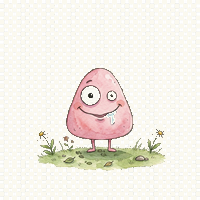
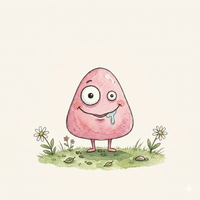
Kids: Kompletny zestaw 28 ilustracji z kremowym tłem #FAF6EF
Wszystkie obrazki wygenerowane od nowa z Gemini z solidnym tłem
kremowym — zero przezroczystości, zero szachownicy.
- 5 postaci Zähni (brush, welcome, detective x2, winner)
- 8 kart Memory (ząb, klepsydra, nić, pasta, jabłko, woda, szczoteczka, lusterko)
- 4 bakterie (zielona, fioletowa, różowa, pomarańczowa)
- 10 ilustracji jedzenia (jabłko, bonbon, marchewka, limonada, ser, czekolada, woda, lody, orzechy, ciasto)
- 1 puchar ZAHNHELD

diff --git a/kids/index.html b/kids/index.html
@@ -220,7 +220,7 @@ body{display:flex;justify-content:center;align-items:center}
 </script>
 <div id="app">
   <div id="start-screen" class="screen active">
-    <div class="start-character"><img src="img/zaehni-brush.png?v=5" alt="Zähni"></div>
+    <div class="start-character"><img src="img/zaehni-brush.png?v=6" alt="Zähni"></div>
     <div class="start-title"><h1>FRYDENT Kids</h1><div class="subtitle">Zahnspiele mit Zähni</div></div>
     <div class="divider"></div>
     <button class="start-btn" onclick="showScreen('age-screen');playSound('click')">Los geht's!</button>
@@ -231,15 +231,15 @@ body{display:flex;justify-content:center;align-items:center}
     <div class="age-header"><h2>Wähle deine Gruppe!</h2><p>Wie alt bist du?</p></div>
     <div class="age-cards">
       <div class="age-card" onclick="selectAge('tiny');playSound('click')">
-        <div class="age-card-icon"><img src="img/zaehni-welcome.png?v=5" alt=""></div>
+        <div class="age-card-icon"><img src="img/zaehni-welcome.png?v=6" alt=""></div>
         <div class="age-card-text"><h3 style="color:var(--rose)">Zahnzwerge</h3><div class="age-range">3 – 5 Jahre</div><div class="age-desc">Bläschen, Zähneputzen, Zuordnen &amp; mehr</div></div>
       </div>
       <div class="age-card" onclick="selectAge('mid');playSound('click')">
-        <div class="age-card-icon"><img src="img/zaehni-brush.png?v=5" alt=""></div>
+        <div class="age-card-icon"><img src="img/zaehni-brush.png?v=6" alt=""></div>
         <div class="age-card-text"><h3 style="color:var(--sage)">Zahnforscher</h3><div class="age-range">5 – 7 Jahre</div><div class="age-desc">Memory, Quiz &amp; Bakterien fangen</div></div>
       </div>
       <div class="age-card" onclick="selectAge('big');playSound('click')">
-        <div class="age-card-icon"><img src="img/zaehni-detective.png?v=5" alt=""></div>
+        <div class="age-card-icon"><img src="img/zaehni-detective.png?v=6" alt=""></div>
         <div class="age-card-text"><h3 style="color:var(--lavender)">Zahndetektive</h3><div class="age-range">7 – 10 Jahre</div><div class="age-desc">Großes Memory, Quiz, Jagd &amp; Diplom</div></div>
       </div>
     </div>
@@ -249,7 +249,7 @@ body{display:flex;justify-content:center;align-items:center}
     <div class="hub-header">
       <button class="btn-round" onclick="showScreen('age-screen');playSound('click')">←</button>
       <div class="hub-title"><h2 id="hub-group-name"></h2><div class="stars-display" id="hub-stars"></div></div>
-      <div class="hub-mascot"><img id="hub-mascot-img" src="img/zaehni-welcome.png?v=5" alt=""></div>
+      <div class="hub-mascot"><img id="hub-mascot-img" src="img/zaehni-welcome.png?v=6" alt=""></div>
     </div>
     <div class="hub-games" id="hub-games-grid"></div>
   </div>
@@ -263,7 +263,7 @@ body{display:flex;justify-content:center;align-items:center}
   </div>
 
   <div class="win-overlay" id="win-overlay">
-    <div class="win-character"><img src="img/trophy.png?v=5" alt=""></div>
+    <div class="win-character"><img src="img/trophy.png?v=6" alt=""></div>
     <div class="win-text"><h2 id="win-title">Super gemacht!</h2><p id="win-subtitle"></p></div>
     <div class="win-stars" id="win-stars"></div>
     <button class="win-btn" onclick="closeWin();playSound('click')">Weiter spielen</button>
@@ -290,26 +290,26 @@ function closeWin(){document.getElementById('win-overlay').classList.remove('act
 
 const GAMES={tiny:[{id:'bubbles',icon:'bubbles',name:'Bläschen platzen',desc:'Fang die Bläschen!',color:'var(--sky-light)'},{id:'brushing',icon:'brushing',name:'Zähne putzen',desc:'Putz alle Zähne sauber!',color:'var(--sage-light)'},{id:'matching',icon:'matching',name:'Was gehört zusammen?',desc:'Finde die 6 Paare!',color:'var(--lavender-light)'},{id:'gutschlecht',icon:'gutschlecht',name:'Gut oder Schlecht?',desc:'Was mögen deine Zähne?',color:'var(--honey-light)'},{id:'diplom',icon:'diplom',name:'Dein Diplom',desc:'Zahnzwerg-Urkunde!',color:'var(--rose-light)'}],mid:[{id:'memory-6',icon:'memory',name:'Memory',desc:'6 Paare finden',color:'var(--sage-light)'},{id:'quiz-easy',icon:'quiz',name:'Kleines Quiz',desc:'5 Fragen über Zähne',color:'var(--honey-light)'},{id:'bakterien-easy',icon:'bakterien',name:'Bakterien fangen',desc:'Fang sie in 25 Sekunden!',color:'var(--rose-light)'},{id:'matching',icon:'matching',name:'Zuordnen',desc:'6 Paare verbinden!',color:'var(--lavender-light)'},{id:'diplom',icon:'diplom',name:'Dein Diplom',desc:'Zahnforscher-Urkunde!',color:'var(--sky-light)'}],big:[{id:'memory-8',icon:'memory',name:'Memory',desc:'8 Paare — für Profis!',color:'var(--sage-light)'},{id:'quiz-hard',icon:'quiz',name:'Großes Zahnquiz',desc:'8 knifflige Fragen',color:'var(--honey-light)'},{id:'bakterien-hard',icon:'bakterien',name:'Bakterienjagd',desc:'30 Sekunden Jagd!',color:'var(--rose-light)'},{id:'diplom',icon:'diplom',name:'Dein Diplom',desc:'Zahndetektiv-Urkunde',color:'var(--lavender-light)'}]};
 const GN={tiny:'Zahnzwerge',mid:'Zahnforscher',big:'Zahndetektive'};
-const GM={tiny:'img/zaehni-welcome.png?v=5',mid:'img/zaehni-brush.png?v=5',big:'img/zaehni-detective.png?v=5'};
+const GM={tiny:'img/zaehni-welcome.png?v=6',mid:'img/zaehni-brush.png?v=6',big:'img/zaehni-detective.png?v=6'};
 
 function buildHub(){const games=GAMES[currentAge];document.getElementById('hub-group-name').textContent=GN[currentAge];document.getElementById('hub-mascot-img').src=GM[currentAge];const ts=getTotalStars();document.getElementById('hub-stars').textContent=ts>0?'⭐ '+ts+' Sterne':'Sammle Sterne!';document.getElementById('hub-games-grid').innerHTML=games.map(g=>'<div class="game-card" onclick="startGame(\''+g.id+'\');playSound(\'click\')"><span class="card-star '+(stars[g.id]?'earned':'')+'">⭐</span><div class="game-card-icon">'+ICONS[g.icon]+'</div><h3>'+g.name+'</h3><p>'+g.desc+'</p><div class="game-card-accent" style="background:'+g.color+'"></div></div>').join('')}
 
 function startGame(gid){currentGame=gid;document.getElementById('game-content').innerHTML='';if(gid.startsWith('memory-'))setupMemory(parseInt(gid.split('-')[1]));else if(gid.startsWith('quiz-'))setupQuiz(gid==='quiz-hard'?8:5);else if(gid.startsWith('bakterien-'))setupBakterien(gid==='bakterien-hard'?30:25);else if(gid==='diplom')setupDiplom();else if(gid==='bubbles')setupBubbles();else if(gid==='brushing')setupBrushing();else if(gid==='matching')setupMatching();else if(gid==='gutschlecht')setupGutSchlecht();showScreen('game-screen')}
 
-const MC=[{id:'toothbrush',img:'img/card-toothbrush.png?v=5',n:'Zahnbürste'},{id:'toothpaste',img:'img/card-toothpaste.png?v=5',n:'Zahnpasta'},{id:'apple',img:'img/card-apple.png?v=5',n:'Apfel'},{id:'water',img:'img/card-water.png?v=5',n:'Wasser'},{id:'tooth',img:'img/card-tooth.png?v=5',n:'Zahn'},{id:'hourglass',img:'img/card-hourglass.png?v=5',n:'Sanduhr'},{id:'floss',img:'img/card-floss.png?v=5',n:'Zahnseide'},{id:'mirror',img:'img/card-mirror.png?v=5',n:'Spiegel'}];
+const MC=[{id:'toothbrush',img:'img/card-toothbrush.png?v=6',n:'Zahnbürste'},{id:'toothpaste',img:'img/card-toothpaste.png?v=6',n:'Zahnpasta'},{id:'apple',img:'img/card-apple.png?v=6',n:'Apfel'},{id:'water',img:'img/card-water.png?v=6',n:'Wasser'},{id:'tooth',img:'img/card-tooth.png?v=6',n:'Zahn'},{id:'hourglass',img:'img/card-hourglass.png?v=6',n:'Sanduhr'},{id:'floss',img:'img/card-floss.png?v=6',n:'Zahnseide'},{id:'mirror',img:'img/card-mirror.png?v=6',n:'Spiegel'}];
 let memS={};
 function setupMemory(pc){document.getElementById('game-screen-title').textContent='Memory';const cards=MC.slice(0,pc);let deck=[...cards,...cards].map((c,i)=>({...c,uid:i}));for(let i=deck.length-1;i>0;i--){const j=Math.floor(Math.random()*(i+1));[deck[i],deck[j]]=[deck[j],deck[i]]}memS={deck,flipped:[],matched:[],moves:0,pairs:pc,locked:false};document.getElementById('game-screen-info').textContent='0 Züge · 0/'+pc+' Paare';const cols=pc<=6?3:4;document.getElementById('game-content').innerHTML='<div class="memory-grid" style="grid-template-columns:repeat('+cols+',1fr)">'+deck.map((c,i)=>'<div class="memory-card" data-i="'+i+'" onclick="flipC('+i+')"><div class="memory-card-inner"><div class="memory-back"><div class="memory-back-tex"></div><div class="memory-back-motif"></div></div><div class="memory-front"><img src="'+c.img+'" alt="'+c.n+'"></div></div></div>').join('')+'</div>'}
 function flipC(i){const s=memS;if(s.locked||s.flipped.includes(i)||s.matched.includes(i))return;document.querySelectorAll('.memory-card')[i].classList.add('flipped');s.flipped.push(i);playSound('click');if(s.flipped.length===2){s.moves++;s.locked=true;const[a,b]=s.flipped;if(s.deck[a].id===s.deck[b].id){setTimeout(()=>{document.querySelectorAll('.memory-card')[a].classList.add('matched');document.querySelectorAll('.memory-card')[b].classList.add('matched');s.matched.push(a,b);s.flipped=[];s.locked=false;playSound('match');updMI();if(s.matched.length===s.deck.length)setTimeout(memWin,500)},400)}else{setTimeout(()=>{document.querySelectorAll('.memory-card')[a].classList.remove('flipped');document.querySelectorAll('.memory-card')[b].classList.remove('flipped');s.flipped=[];s.locked=false;playSound('wrong');updMI()},850)}}}
 function updMI(){document.getElementById('game-screen-info').textContent=memS.moves+' Züge · '+memS.matched.length/2+'/'+memS.pairs+' Paare'}
 function memWin(){const sc=memS.moves<=memS.pairs*2?3:memS.moves<=memS.pairs*3?2:1;stars[currentGame]=true;saveStars();showWin('Alle Paare gefunden!','In '+memS.moves+' Zügen',sc)}
 
-const QA=[{q:'Wie oft solltest du am Tag Zähne putzen?',a:['Einmal','Zweimal','Dreimal','Gar nicht'],c:1,img:null},{q:'Was macht Zucker mit deinen Zähnen?',a:['Macht sie stärker','Bakterien machen Säure daraus','Putzt sie sauber','Gar nichts'],c:1,img:'img/food-candy.png?v=5'},{q:'Wie lange solltest du Zähne putzen?',a:['30 Sekunden','1 Minute','2 Minuten','5 Minuten'],c:2,img:'img/card-hourglass.png?v=5'},{q:'Was schützt deine Zähne vor Karies?',a:['Schokolade','Fluorid in der Zahnpasta','Limonade','Kaugummi'],c:1,img:'img/card-toothpaste.png?v=5'},{q:'Welches Essen ist gut für deine Zähne?',a:['Gummibärchen','Bonbons','Äpfel und Karotten','Eis'],c:2,img:'img/food-apple.png?v=5'},{q:'Wie oft solltest du zum Zahnarzt gehen?',a:['Jeden Tag','Einmal im Jahr','Zweimal im Jahr','Nur bei Schmerzen'],c:2,img:null},{q:'Was reinigt die Zahnzwischenräume?',a:['Nur die Zahnbürste','Zahnseide','Mundwasser','Wasser'],c:1,img:'img/card-floss.png?v=5'},{q:'Was passiert bei einer Professionellen Zahnreinigung?',a:['Zähne werden gezogen','Zähne werden gründlich gereinigt','Man bekommt neue Zähne','Zähne werden angemalt'],c:1,img:null},{q:'Was ist das beste Getränk für deine Zähne?',a:['Cola','Apfelsaft','Wasser','Limonade'],c:2,img:'img/food-water.png?v=5'},{q:'Was solltest du nach dem Essen von Süßigkeiten tun?',a:['Noch mehr essen','Zähne putzen','Limonade trinken','Schlafen gehen'],c:1,img:'img/food-chocolate.png?v=5'}];
+const QA=[{q:'Wie oft solltest du am Tag Zähne putzen?',a:['Einmal','Zweimal','Dreimal','Gar nicht'],c:1,img:null},{q:'Was macht Zucker mit deinen Zähnen?',a:['Macht sie stärker','Bakterien machen Säure daraus','Putzt sie sauber','Gar nichts'],c:1,img:'img/food-candy.png?v=6'},{q:'Wie lange solltest du Zähne putzen?',a:['30 Sekunden','1 Minute','2 Minuten','5 Minuten'],c:2,img:'img/card-hourglass.png?v=6'},{q:'Was schützt deine Zähne vor Karies?',a:['Schokolade','Fluorid in der Zahnpasta','Limonade','Kaugummi'],c:1,img:'img/card-toothpaste.png?v=6'},{q:'Welches Essen ist gut für deine Zähne?',a:['Gummibärchen','Bonbons','Äpfel und Karotten','Eis'],c:2,img:'img/food-apple.png?v=6'},{q:'Wie oft solltest du zum Zahnarzt gehen?',a:['Jeden Tag','Einmal im Jahr','Zweimal im Jahr','Nur bei Schmerzen'],c:2,img:null},{q:'Was reinigt die Zahnzwischenräume?',a:['Nur die Zahnbürste','Zahnseide','Mundwasser','Wasser'],c:1,img:'img/card-floss.png?v=6'},{q:'Was passiert bei einer Professionellen Zahnreinigung?',a:['Zähne werden gezogen','Zähne werden gründlich gereinigt','Man bekommt neue Zähne','Zähne werden angemalt'],c:1,img:null},{q:'Was ist das beste Getränk für deine Zähne?',a:['Cola','Apfelsaft','Wasser','Limonade'],c:2,img:'img/food-water.png?v=6'},{q:'Was solltest du nach dem Essen von Süßigkeiten tun?',a:['Noch mehr essen','Zähne putzen','Limonade trinken','Schlafen gehen'],c:1,img:'img/food-chocolate.png?v=6'}];
 let qS={};
 function setupQuiz(cnt){document.getElementById('game-screen-title').textContent=cnt<=5?'Kleines Quiz':'Großes Zahnquiz';document.getElementById('game-screen-info').textContent='Frage 1 von '+cnt;const qs=[...QA].sort(()=>Math.random()-.5).slice(0,cnt);qS={qs,cur:0,score:0,ans:false,total:cnt};renderQ()}
-function renderQ(){const q=qS.qs[qS.cur];const imgHtml=q.img?'<div style="width:110px;height:110px;margin:0 auto"><img src="'+q.img+'" style="width:100%;height:100%;object-fit:contain" alt=""></div>':'<div class="quiz-character"><img src="img/zaehni-detective.png?v=5" alt=""></div>';document.getElementById('game-content').innerHTML='<div class="quiz-container"><div class="quiz-progress"><div class="quiz-progress-bar" style="width:'+(qS.cur/qS.total*100)+'%"></div></div>'+imgHtml+'<div class="quiz-question"><h3>'+q.q+'</h3></div><div class="quiz-answers">'+q.a.map((a,i)=>'<button class="quiz-answer" onclick="ansQ('+i+')">'+a+'</button>').join('')+'</div><div class="quiz-feedback" id="qfb"></div></div>'}
+function renderQ(){const q=qS.qs[qS.cur];const imgHtml=q.img?'<div style="width:110px;height:110px;margin:0 auto"><img src="'+q.img+'" style="width:100%;height:100%;object-fit:contain" alt=""></div>':'<div class="quiz-character"><img src="img/zaehni-detective.png?v=6" alt=""></div>';document.getElementById('game-content').innerHTML='<div class="quiz-container"><div class="quiz-progress"><div class="quiz-progress-bar" style="width:'+(qS.cur/qS.total*100)+'%"></div></div>'+imgHtml+'<div class="quiz-question"><h3>'+q.q+'</h3></div><div class="quiz-answers">'+q.a.map((a,i)=>'<button class="quiz-answer" onclick="ansQ('+i+')">'+a+'</button>').join('')+'</div><div class="quiz-feedback" id="qfb"></div></div>'}
 function ansQ(i){if(qS.ans)return;qS.ans=true;const q=qS.qs[qS.cur],btns=document.querySelectorAll('.quiz-answer'),fb=document.getElementById('qfb');btns[q.c].classList.add('correct');if(i===q.c){qS.score++;playSound('correct');fb.textContent='✓ Richtig!';fb.style.color='#4a6a38'}else{btns[i].classList.add('wrong');playSound('wrong');fb.textContent='✗ Leider falsch!';fb.style.color='#8a4a42'}btns.forEach(b=>b.style.pointerEvents='none');setTimeout(()=>{qS.cur++;qS.ans=false;if(qS.cur>=qS.total){const sc=qS.score>=qS.total-1?3:qS.score>=qS.total*.6?2:1;stars[currentGame]=true;saveStars();showWin(qS.score>=qS.total-1?'Zahnexperte!':'Gut gemacht!',qS.score+' von '+qS.total+' richtig',sc)}else{document.getElementById('game-screen-info').textContent='Frage '+(qS.cur+1)+' von '+qS.total;renderQ()}},1400)}
 
-const BI=['img/bacteria-purple.png?v=5','img/bacteria-green.png?v=5','img/bacteria-orange.png?v=5','img/bacteria-pink.png?v=5'];
+const BI=['img/bacteria-purple.png?v=6','img/bacteria-green.png?v=6','img/bacteria-orange.png?v=6','img/bacteria-pink.png?v=6'];
 let bakterienState={timer:null,spawner:null};
 function setupBakterien(sec){document.getElementById('game-screen-title').textContent='Bakterien fangen';document.getElementById('game-screen-info').textContent=sec+' Sekunden';const mSvg='<svg viewBox="0 0 480 50" preserveAspectRatio="none"><path d="M0,30 Q40,15 80,28 Q120,38 160,25 Q200,15 240,30 Q280,40 320,22 Q360,12 400,28 Q440,38 480,25 L480,50 L0,50 Z" fill="rgba(168,200,184,.35)"/><path d="M0,38 Q60,28 120,36 Q180,44 240,34 Q300,26 360,38 Q420,46 480,32 L480,50 L0,50 Z" fill="rgba(138,154,107,.2)"/></svg>';document.getElementById('game-content').innerHTML='<div class="bakterien-arena" id="ba"><div class="arena-hud"><div class="hud-badge" id="bs">0 gefangen</div><div class="hud-badge" id="bt">'+sec+'s</div></div><div class="meadow">'+mSvg+'</div></div>';bakterienState={score:0,timeLeft:sec,timer:null,spawner:null,active:true};setTimeout(startB,400)}
 function startB(){const s=bakterienState;s.timer=setInterval(()=>{s.timeLeft--;const e=document.getElementById('bt');if(e)e.textContent=s.timeLeft+'s';if(s.timeLeft<=0){clearInterval(s.timer);clearInterval(s.spawner);s.active=false;const sc=s.score>=20?3:s.score>=12?2:1;stars[currentGame]=true;saveStars();showWin(s.score>=20?'Bakterienjäger!':'Gut gefangen!',s.score+' Bakterien erwischt',sc)}},1000);spawnB();s.spawner=setInterval(spawnB,750)}
@@ -321,24 +321,24 @@ function startBu(){const s=bubblesState;s.timer=setInterval(()=>{s.timeLeft--;co
 function spawnBub(){if(!bubblesState.active)return;const a=document.getElementById('bua');if(!a)return;const cs=['rgba(120,200,230,.65)','rgba(180,130,210,.6)','rgba(240,160,170,.55)','rgba(160,210,140,.55)','rgba(230,190,100,.55)','rgba(200,140,180,.6)'];const e=document.createElement('div');e.className='bubble';const sz=42+Math.random()*40;e.style.width=sz+'px';e.style.height=sz+'px';e.style.left=(8+Math.random()*(a.offsetWidth-sz-16))+'px';e.style.background='radial-gradient(circle at 35% 30%,rgba(255,255,255,.5),'+cs[Math.floor(Math.random()*cs.length)]+')';e.style.animationDuration=(3.5+Math.random()*2)+'s';e.addEventListener('pointerdown',ev=>{ev.preventDefault();if(e.classList.contains('popped'))return;e.classList.add('popped');bubblesState.score++;const sc=document.getElementById('bus');if(sc)sc.textContent=bubblesState.score+' geplatzt';playSound('pop');setTimeout(()=>e.remove(),300)});a.appendChild(e);setTimeout(()=>e.remove(),5500)}
 
 let brS={};
-function setupBrushing(){document.getElementById('game-screen-title').textContent='Zähne putzen';document.getElementById('game-screen-info').textContent='Male alle Zähne weiß!';brS={cleaned:0,total:14,painting:false};let upper='',lower='';for(let i=0;i<7;i++)upper+='<div class="brush-tooth" data-i="'+i+'"></div>';for(let i=7;i<14;i++)lower+='<div class="brush-tooth" data-i="'+i+'"></div>';document.getElementById('game-content').innerHTML='<div class="brush-area"><img src="img/zaehni-brush.png?v=5" style="width:80px;height:80px;object-fit:contain" alt=""><div class="brush-progress"><div class="brush-progress-bar" id="brbar" style="width:0%"></div></div><div class="brush-hint"><svg viewBox="0 0 20 20" fill="none"><path d="M10,4 L10,16" stroke="var(--bark-light)" stroke-width="1.5" stroke-linecap="round"/><path d="M6,8 L10,4 L14,8" stroke="var(--bark-light)" stroke-width="1.5" stroke-linecap="round" fill="none"/><path d="M6,12 L10,16 L14,12" stroke="var(--bark-light)" stroke-width="1.5" stroke-linecap="round" fill="none"/></svg>Wische mit dem Finger über die Zähne!</div><div class="brush-mouth" id="brush-mouth"><div class="tooth-row upper">'+upper+'</div><div class="tooth-row lower">'+lower+'</div></div></div>';const mouth=document.getElementById("brush-mouth");mouth.addEventListener("pointerdown",function(e){e.preventDefault();brS.painting=true;paintAt(e)});mouth.addEventListener("pointermove",function(e){e.preventDefault();if(brS.painting)paintAt(e)});mouth.addEventListener("pointerup",function(){brS.painting=false});mouth.addEventListener("pointerleave",function(){brS.painting=false})}
+function setupBrushing(){document.getElementById('game-screen-title').textContent='Zähne putzen';document.getElementById('game-screen-info').textContent='Male alle Zähne weiß!';brS={cleaned:0,total:14,painting:false};let upper='',lower='';for(let i=0;i<7;i++)upper+='<div class="brush-tooth" data-i="'+i+'"></div>';for(let i=7;i<14;i++)lower+='<div class="brush-tooth" data-i="'+i+'"></div>';document.getElementById('game-content').innerHTML='<div class="brush-area"><img src="img/zaehni-brush.png?v=6" style="width:80px;height:80px;object-fit:contain" alt=""><div class="brush-progress"><div class="brush-progress-bar" id="brbar" style="width:0%"></div></div><div class="brush-hint"><svg viewBox="0 0 20 20" fill="none"><path d="M10,4 L10,16" stroke="var(--bark-light)" stroke-width="1.5" stroke-linecap="round"/><path d="M6,8 L10,4 L14,8" stroke="var(--bark-light)" stroke-width="1.5" stroke-linecap="round" fill="none"/><path d="M6,12 L10,16 L14,12" stroke="var(--bark-light)" stroke-width="1.5" stroke-linecap="round" fill="none"/></svg>Wische mit dem Finger über die Zähne!</div><div class="brush-mouth" id="brush-mouth"><div class="tooth-row upper">'+upper+'</div><div class="tooth-row lower">'+lower+'</div></div></div>';const mouth=document.getElementById("brush-mouth");mouth.addEventListener("pointerdown",function(e){e.preventDefault();brS.painting=true;paintAt(e)});mouth.addEventListener("pointermove",function(e){e.preventDefault();if(brS.painting)paintAt(e)});mouth.addEventListener("pointerup",function(){brS.painting=false});mouth.addEventListener("pointerleave",function(){brS.painting=false})}
 function paintAt(e){const teeth=document.querySelectorAll(".brush-tooth");teeth.forEach(function(t){const r=t.getBoundingClientRect();if(e.clientX>=r.left&&e.clientX<=r.right&&e.clientY>=r.top&&e.clientY<=r.bottom){if(!t.classList.contains("clean")){if(!t.classList.contains("painting")){t.classList.add("painting");setTimeout(function(){t.classList.remove("painting");t.classList.add("clean");brS.cleaned++;playSound("pop");document.getElementById("brbar").style.width=(brS.cleaned/brS.total*100)+"%";if(brS.cleaned>=brS.total)setTimeout(function(){stars["brushing"]=true;saveStars();showWin("Alle Zähne sauber!","Super geputzt!",3)},400)},300)}}}})}
 
-const MP=[{img:'img/card-toothbrush.png?v=5',l:'Zahnbürste',m:'Zähne putzen'},{img:'img/card-toothpaste.png?v=5',l:'Zahnpasta',m:'Schutz vor Karies'},{img:'img/card-apple.png?v=5',l:'Apfel',m:'Gesunder Snack'},{img:'img/card-water.png?v=5',l:'Wasser',m:'Bestes Getränk'},{img:'img/card-hourglass.png?v=5',l:'Sanduhr',m:'2 Minuten putzen'},{img:'img/card-floss.png?v=5',l:'Zahnseide',m:'Zahnzwischenräume'}];
+const MP=[{img:'img/card-toothbrush.png?v=6',l:'Zahnbürste',m:'Zähne putzen'},{img:'img/card-toothpaste.png?v=6',l:'Zahnpasta',m:'Schutz vor Karies'},{img:'img/card-apple.png?v=6',l:'Apfel',m:'Gesunder Snack'},{img:'img/card-water.png?v=6',l:'Wasser',m:'Bestes Getränk'},{img:'img/card-hourglass.png?v=6',l:'Sanduhr',m:'2 Minuten putzen'},{img:'img/card-floss.png?v=6',l:'Zahnseide',m:'Zahnzwischenräume'}];
 let mS={};
 function setupMatching(){document.getElementById('game-screen-title').textContent='Was gehört zusammen?';document.getElementById('game-screen-info').textContent='0/6 Paare';mS={sel:null,matched:0,total:6};let ri=MP.map((p,i)=>({i,t:p.m}));for(let i=ri.length-1;i>0;i--){const j=Math.floor(Math.random()*(i+1));[ri[i],ri[j]]=[ri[j],ri[i]]}document.getElementById('game-content').innerHTML='<div class="matching-container"><p style="text-align:center;font-size:13px;color:var(--bark-light);font-style:italic;margin-bottom:4px">Verbinde Bild und Beschreibung!</p><div class="matching-row"><div class="matching-col">'+MP.map((p,i)=>'<div class="matching-item" data-s="l" data-i="'+i+'" onclick="sM(\'l\','+i+')"><img src="'+p.img+'" alt=""><span>'+p.l+'</span></div>').join('')+'</div><div class="matching-col">'+ri.map(r=>'<div class="matching-item" data-s="r" data-i="'+r.i+'" onclick="sM(\'r\','+r.i+')"><span style="font-size:14px">'+r.t+'</span></div>').join('')+'</div></div></div>'}
 function sM(side,idx){const el=document.querySelector('.matching-item[data-s="'+side+'"][data-i="'+idx+'"]');if(el.classList.contains('matched'))return;document.querySelectorAll('.matching-item[data-s="'+side+'"]').forEach(e=>e.classList.remove('selected'));el.classList.add('selected');playSound('click');if(!mS.sel||mS.sel.s===side){mS.sel={s:side,i:idx};return}const li=side==='l'?idx:mS.sel.i,ri=side==='r'?idx:mS.sel.i;if(li===ri){document.querySelector('.matching-item[data-s="l"][data-i="'+li+'"]').classList.add('matched');document.querySelector('.matching-item[data-s="r"][data-i="'+ri+'"]').classList.add('matched');document.querySelectorAll('.matching-item').forEach(e=>e.classList.remove('selected'));mS.matched++;mS.sel=null;playSound('match');document.getElementById('game-screen-info').textContent=mS.matched+'/'+mS.total+' Paare';if(mS.matched>=mS.total)setTimeout(()=>{stars['matching']=true;saveStars();showWin('Alles gefunden!','Du kennst dich aus!',3)},500)}else{playSound('wrong');setTimeout(()=>{document.querySelectorAll('.matching-item').forEach(e=>e.classList.remove('selected'));mS.sel=null},500)}}
 
-const GS_ITEMS=[{name:'Apfel',img:'img/food-apple.png?v=5',gut:true},{name:'Bonbon',img:'img/food-candy.png?v=5',gut:false},{name:'Karotte',img:'img/food-carrot.png?v=5',gut:true},{name:'Limonade',img:'img/food-lemonade.png?v=5',gut:false},{name:'Käse',img:'img/food-cheese.png?v=5',gut:true},{name:'Schokolade',img:'img/food-chocolate.png?v=5',gut:false},{name:'Wasser',img:'img/food-water.png?v=5',gut:true},{name:'Eis',img:'img/food-icecream.png?v=5',gut:false},{name:'Nüsse',img:'img/food-nuts.png?v=5',gut:true},{name:'Kuchen',img:'img/food-cake.png?v=5',gut:false}];
+const GS_ITEMS=[{name:'Apfel',img:'img/food-apple.png?v=6',gut:true},{name:'Bonbon',img:'img/food-candy.png?v=6',gut:false},{name:'Karotte',img:'img/food-carrot.png?v=6',gut:true},{name:'Limonade',img:'img/food-lemonade.png?v=6',gut:false},{name:'Käse',img:'img/food-cheese.png?v=6',gut:true},{name:'Schokolade',img:'img/food-chocolate.png?v=6',gut:false},{name:'Wasser',img:'img/food-water.png?v=6',gut:true},{name:'Eis',img:'img/food-icecream.png?v=6',gut:false},{name:'Nüsse',img:'img/food-nuts.png?v=6',gut:true},{name:'Kuchen',img:'img/food-cake.png?v=6',gut:false}];
 let gsS={};
 function setupGutSchlecht(){document.getElementById('game-screen-title').textContent='Gut oder Schlecht?';document.getElementById('game-screen-info').textContent='Frage 1 von 8';const items=[...GS_ITEMS].sort(()=>Math.random()-.5).slice(0,8);gsS={items,cur:0,score:0,ans:false,total:8};renderGS()}
-function renderGS(){const it=gsS.items[gsS.cur];document.getElementById('game-content').innerHTML='<div style="width:100%;max-width:340px;display:flex;flex-direction:column;align-items:center;gap:16px"><div style="width:100%;height:6px;background:var(--parchment-warm);border-radius:3px;overflow:hidden"><div style="height:100%;width:'+(gsS.cur/gsS.total*100)+'%;background:linear-gradient(90deg,var(--sage),var(--honey));border-radius:3px;transition:width .4s"></div></div><div style="text-align:center"><img src="img/zaehni-welcome.png?v=5" style="width:70px;height:70px;object-fit:contain" alt=""><p style="font-family:Quicksand,sans-serif;font-size:16px;font-weight:700;margin-top:6px">Ist das gut für deine Zähne?</p></div><div style="width:200px;height:200px;margin:4px auto"><img src="'+it.img+'" style="width:100%;height:100%;object-fit:contain;filter:drop-shadow(0 4px 10px rgba(90,78,66,.12))" alt="'+it.name+'"></div><div style="font-family:Quicksand,sans-serif;font-size:22px;font-weight:700;text-align:center;color:var(--bark)">'+it.name+'</div><div style="display:flex;gap:16px;margin-top:8px;width:100%"><button onclick="ansGS(true)" style="flex:1;padding:16px;border:2px solid var(--sage-light);border-radius:var(--radius);background:var(--cream);cursor:pointer;font-size:16px;font-family:Quicksand,sans-serif;font-weight:700;color:var(--sage);transition:all .2s"><span style="font-size:28px;display:block;margin-bottom:4px">😊</span>Gut!</button><button onclick="ansGS(false)" style="flex:1;padding:16px;border:2px solid var(--rose-light);border-radius:var(--radius);background:var(--cream);cursor:pointer;font-size:16px;font-family:Quicksand,sans-serif;font-weight:700;color:var(--rose);transition:all .2s"><span style="font-size:28px;display:block;margin-bottom:4px">😟</span>Schlecht!</button></div><div id="gsfb" style="text-align:center;font-weight:600;font-size:15px;min-height:36px"></div></div>'}
+function renderGS(){const it=gsS.items[gsS.cur];document.getElementById('game-content').innerHTML='<div style="width:100%;max-width:340px;display:flex;flex-direction:column;align-items:center;gap:16px"><div style="width:100%;height:6px;background:var(--parchment-warm);border-radius:3px;overflow:hidden"><div style="height:100%;width:'+(gsS.cur/gsS.total*100)+'%;background:linear-gradient(90deg,var(--sage),var(--honey));border-radius:3px;transition:width .4s"></div></div><div style="text-align:center"><img src="img/zaehni-welcome.png?v=6" style="width:70px;height:70px;object-fit:contain" alt=""><p style="font-family:Quicksand,sans-serif;font-size:16px;font-weight:700;margin-top:6px">Ist das gut für deine Zähne?</p></div><div style="width:200px;height:200px;margin:4px auto"><img src="'+it.img+'" style="width:100%;height:100%;object-fit:contain;filter:drop-shadow(0 4px 10px rgba(90,78,66,.12))" alt="'+it.name+'"></div><div style="font-family:Quicksand,sans-serif;font-size:22px;font-weight:700;text-align:center;color:var(--bark)">'+it.name+'</div><div style="display:flex;gap:16px;margin-top:8px;width:100%"><button onclick="ansGS(true)" style="flex:1;padding:16px;border:2px solid var(--sage-light);border-radius:var(--radius);background:var(--cream);cursor:pointer;font-size:16px;font-family:Quicksand,sans-serif;font-weight:700;color:var(--sage);transition:all .2s"><span style="font-size:28px;display:block;margin-bottom:4px">😊</span>Gut!</button><button onclick="ansGS(false)" style="flex:1;padding:16px;border:2px solid var(--rose-light);border-radius:var(--radius);background:var(--cream);cursor:pointer;font-size:16px;font-family:Quicksand,sans-serif;font-weight:700;color:var(--rose);transition:all .2s"><span style="font-size:28px;display:block;margin-bottom:4px">😟</span>Schlecht!</button></div><div id="gsfb" style="text-align:center;font-weight:600;font-size:15px;min-height:36px"></div></div>'}
 function ansGS(isGut){if(gsS.ans)return;gsS.ans=true;const correct=gsS.items[gsS.cur].gut===isGut;const fb=document.getElementById('gsfb');if(correct){gsS.score++;playSound('correct');fb.textContent='✓ Richtig!';fb.style.color='#4a6a38'}else{playSound('wrong');fb.textContent='✗ '+(gsS.items[gsS.cur].gut?'Das ist gut für Zähne!':'Das ist schlecht für Zähne!');fb.style.color='#8a4a42'}setTimeout(()=>{gsS.cur++;gsS.ans=false;if(gsS.cur>=gsS.total){const sc=gsS.score>=7?3:gsS.score>=5?2:1;stars['gutschlecht']=true;saveStars();showWin(gsS.score>=7?'Zahnprofi!':'Gut gemacht!',gsS.score+' von '+gsS.total+' richtig',sc)}else{document.getElementById('game-screen-info').textContent='Frage '+(gsS.cur+1)+' von '+gsS.total;renderGS()}},1400)}
 
-function setupDiplom(){document.getElementById('game-screen-title').textContent='Dein Diplom';document.getElementById('game-screen-info').textContent='';const ts=getTotalStars();const titles={tiny:'Zahnzwerg-Diplom',mid:'Zahnforscher-Diplom',big:'Zahnheld-Diplom'};const subtitles={tiny:'ein echter Zahnzwerg',mid:'ein echter Zahnforscher',big:'ein echter Zahnheld'};const dt=titles[currentAge]||'Zahnheld-Diplom';const ds=subtitles[currentAge]||'ein echter Zahnheld';const vine='<svg class="diplom-vine" viewBox="0 0 120 16"><path d="M10,8 Q30,2 45,8 Q55,12 65,8 Q75,4 85,8 Q95,12 110,8" fill="none" stroke="rgba(123,164,144,.3)" stroke-width="1.5"/><circle cx="25" cy="5" r="2.5" fill="rgba(193,123,110,.25)"/><circle cx="55" cy="10" r="2" fill="rgba(212,167,106,.3)"/><circle cx="85" cy="5" r="2.5" fill="rgba(168,139,174,.25)"/></svg>';document.getElementById('game-content').innerHTML='<div class="diplom-container"><div class="diplom-frame"><div class="diplom-corner"></div><div class="diplom-corner"></div><div class="diplom-corner"></div><div class="diplom-corner"></div><div class="diplom-character"><img src="img/zaehni-winner.png?v=5" alt="" style="width:90px;height:90px;object-fit:contain"></div><div style="width:160px;z-index:1;margin:-8px 0"><img src="img/trophy.png?v=5" alt="" style="width:100%;object-fit:contain"></div><div class="diplom-title">'+dt+'</div>'+vine+'<div class="diplom-text">Hiermit wird bestätigt, dass</div><input type="text" class="diplom-name-input" id="dn" placeholder="Dein Name" maxlength="20"><div class="diplom-text">alle Zahnspiele gemeistert hat<br>und '+ds+' ist!</div><div class="diplom-stars">'+'⭐'.repeat(Math.min(ts,8))+'</div>'+vine+'<div class="diplom-praxis">FRYDENT Zahnarztpraxis · Bonndorf im Schwarzwald<br>'+new Date().toLocaleDateString('de-DE')+'</div></div><button class="diplom-btn" onclick="printD()">Diplom drucken</button></div>'}
+function setupDiplom(){document.getElementById('game-screen-title').textContent='Dein Diplom';document.getElementById('game-screen-info').textContent='';const ts=getTotalStars();const titles={tiny:'Zahnzwerg-Diplom',mid:'Zahnforscher-Diplom',big:'Zahnheld-Diplom'};const subtitles={tiny:'ein echter Zahnzwerg',mid:'ein echter Zahnforscher',big:'ein echter Zahnheld'};const dt=titles[currentAge]||'Zahnheld-Diplom';const ds=subtitles[currentAge]||'ein echter Zahnheld';const vine='<svg class="diplom-vine" viewBox="0 0 120 16"><path d="M10,8 Q30,2 45,8 Q55,12 65,8 Q75,4 85,8 Q95,12 110,8" fill="none" stroke="rgba(123,164,144,.3)" stroke-width="1.5"/><circle cx="25" cy="5" r="2.5" fill="rgba(193,123,110,.25)"/><circle cx="55" cy="10" r="2" fill="rgba(212,167,106,.3)"/><circle cx="85" cy="5" r="2.5" fill="rgba(168,139,174,.25)"/></svg>';document.getElementById('game-content').innerHTML='<div class="diplom-container"><div class="diplom-frame"><div class="diplom-corner"></div><div class="diplom-corner"></div><div class="diplom-corner"></div><div class="diplom-corner"></div><div class="diplom-character"><img src="img/zaehni-winner.png?v=6" alt="" style="width:90px;height:90px;object-fit:contain"></div><div style="width:160px;z-index:1;margin:-8px 0"><img src="img/trophy.png?v=6" alt="" style="width:100%;object-fit:contain"></div><div class="diplom-title">'+dt+'</div>'+vine+'<div class="diplom-text">Hiermit wird bestätigt, dass</div><input type="text" class="diplom-name-input" id="dn" placeholder="Dein Name" maxlength="20"><div class="diplom-text">alle Zahnspiele gemeistert hat<br>und '+ds+' ist!</div><div class="diplom-stars">'+'⭐'.repeat(Math.min(ts,8))+'</div>'+vine+'<div class="diplom-praxis">FRYDENT Zahnarztpraxis · Bonndorf im Schwarzwald<br>'+new Date().toLocaleDateString('de-DE')+'</div></div><button class="diplom-btn" onclick="printD()">Diplom drucken</button></div>'}
 function printD(){const nm=document.getElementById('dn').value||'Zahnheld';const ts=getTotalStars();stars['diplom']=true;saveStars();const titles={tiny:'Zahnzwerg-Diplom',mid:'Zahnforscher-Diplom',big:'Zahnheld-Diplom'};const subs={tiny:'ein echter Zahnzwerg',mid:'ein echter Zahnforscher',big:'ein echter Zahnheld'};const dt=titles[currentAge]||'Zahnheld-Diplom';const ds=subs[currentAge]||'ein echter Zahnheld';const w=window.open('','_blank');w.document.write('<!DOCTYPE html><html><head><meta charset="UTF-8"><link href="https://fonts.googleapis.com/css2?family=Quicksand:wght@500;600;700&family=Nunito:wght@400;600;700&display=swap" rel="stylesheet"><style>body{display:flex;justify-content:center;align-items:center;min-height:100vh;margin:0;font-family:"Nunito",sans-serif;background:#FAF6EF}.d{width:560px;padding:50px 40px;text-align:center;background:#FFFCF5;border:2px solid #E8CFA0;border-radius:16px;position:relative}.d::before{content:"";position:absolute;inset:10px;border:1.5px solid #A8C8B8;border-radius:12px}.d::after{content:"";position:absolute;inset:14px;border:1px dashed #F5E8CE;border-radius:10px}h1{font-family:"Quicksand",sans-serif;color:#7BA490;font-size:28px;margin:16px 0 8px}h2{font-family:"Quicksand",sans-serif;color:#D4A76A;font-size:30px;margin:12px 0}p{color:#8A7E72;font-size:15px;line-height:1.6;font-style:italic}.s{font-size:24px;letter-spacing:5px;margin:14px 0}.f{font-size:12px;color:#aaa;margin-top:20px;font-style:normal}@media print{body{background:white}}</style></head><body><div class="d"><p style="font-size:13px;font-style:normal">✿ ✿ ✿</p><h1>'+dt+'</h1><p>Hiermit wird bestätigt, dass</p><h2>'+nm+'</h2><p>alle Zahnspiele bei FRYDENT Kids erfolgreich gemeistert hat und nun '+ds+' ist!</p><div class="s">'+'⭐'.repeat(Math.min(ts,8))+'</div><p style="font-size:12px;margin-top:12px;font-style:normal">✿ ✿ ✿</p><div class="f">FRYDENT Zahnarztpraxis · Martinstraße 4 · 79848 Bonndorf im Schwarzwald<br>'+new Date().toLocaleDateString('de-DE')+'</div></div><script>setTimeout(()=>window.print(),500)<\/script></body></html>')}
 
-[...MC.map(c=>c.img),...BI,'img/zaehni-welcome.png?v=5','img/zaehni-brush.png?v=5','img/zaehni-winner.png?v=5','img/zaehni-detective.png?v=5','img/trophy.png?v=5','img/food-apple.png?v=5','img/food-candy.png?v=5','img/food-carrot.png?v=5','img/food-lemonade.png?v=5','img/food-cheese.png?v=5','img/food-chocolate.png?v=5','img/food-water.png?v=5','img/food-icecream.png?v=5','img/food-nuts.png?v=5','img/food-cake.png?v=5'].forEach(s=>{const i=new Image();i.src=s});
+[...MC.map(c=>c.img),...BI,'img/zaehni-welcome.png?v=6','img/zaehni-brush.png?v=6','img/zaehni-winner.png?v=6','img/zaehni-detective.png?v=6','img/trophy.png?v=6','img/food-apple.png?v=6','img/food-candy.png?v=6','img/food-carrot.png?v=6','img/food-lemonade.png?v=6','img/food-cheese.png?v=6','img/food-chocolate.png?v=6','img/food-water.png?v=6','img/food-icecream.png?v=6','img/food-nuts.png?v=6','img/food-cake.png?v=6'].forEach(s=>{const i=new Image();i.src=s});
 // SW disabled - cache nuke active
 </script>
 </body>
